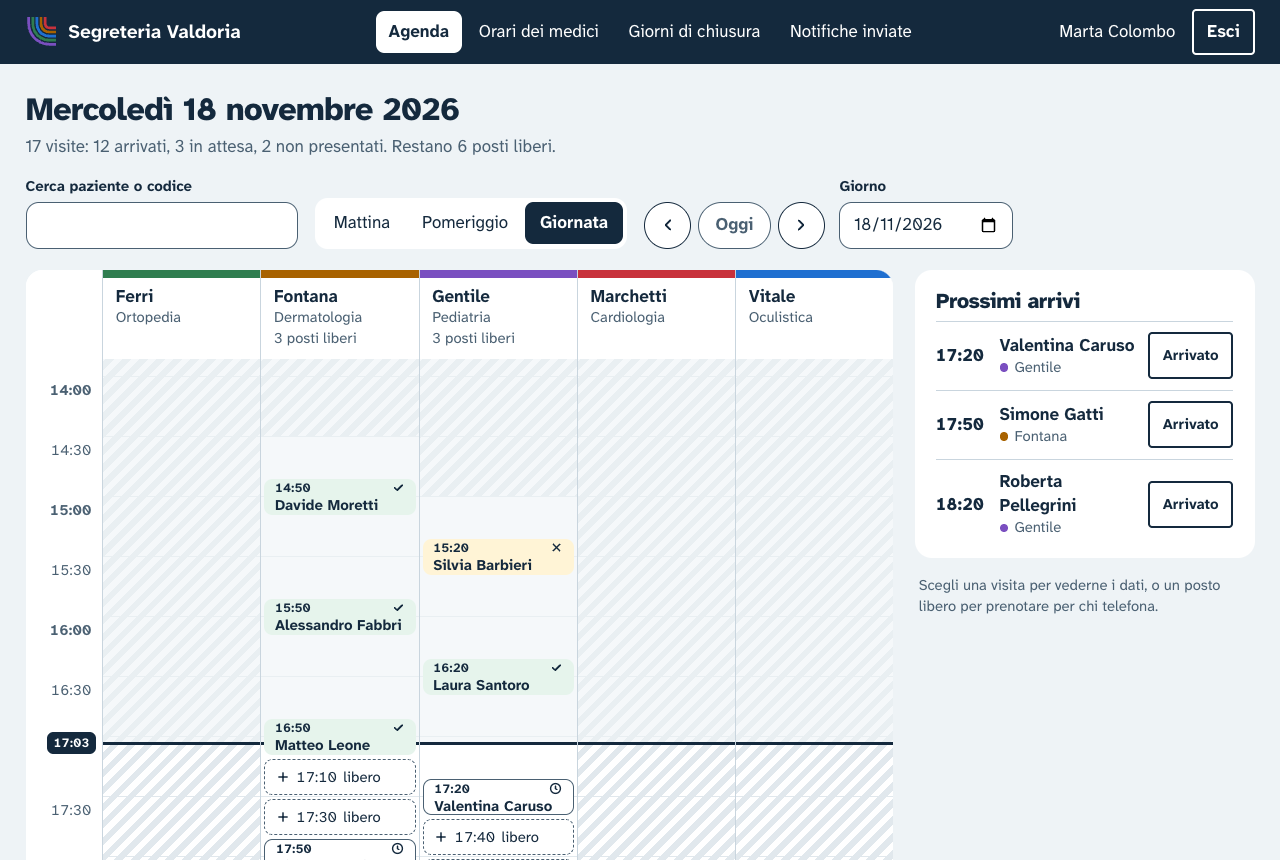
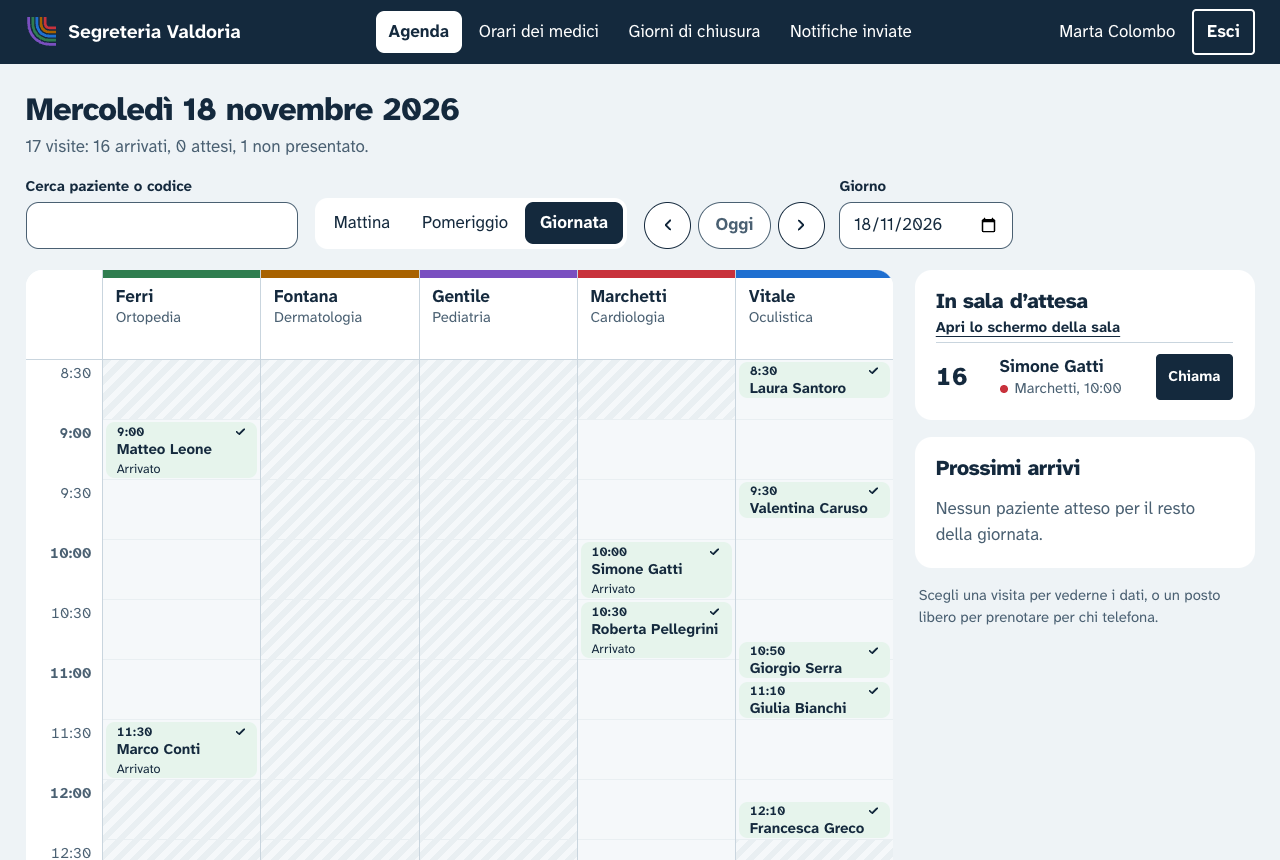
docs: the waiting room in the README, with ADR 7

diff --git a/e2e/screenshots/readme.spec.ts b/e2e/screenshots/readme.spec.ts
@@ -57,6 +57,16 @@ test.describe('on a computer', () => {
     await capture(page, 'computer-prenotazione', true);
   });
 
+  test('the waiting room screen', async ({ page }) => {
+    // The size of a television, scaled down: the screen fills it exactly.
+    await page.setViewportSize({ width: 1280, height: 720 });
+    await page.goto('/sala');
+    await page
+      .getByRole('region', { name: /Ora tocca al numero|Nessuna chiamata per ora/ })
+      .waitFor();
+    await capture(page, 'computer-sala', false);
+  });
+
   test('the staff area', async ({ page }) => {
     await page.goto('/segreteria');
     await page.getByLabel('Nome utente').fill('segreteria');

diff --git a/README.en.md b/README.en.md
@@ -37,6 +37,7 @@ When the containers are ready, open <http://localhost:8080>. The first start bui
 | Book a visit by following the line of a specialty | <http://localhost:8080> |
 | View, move or cancel it with code and e-mail; add it to a calendar, print the ticket | "La mia prenotazione" |
 | The day's agenda as a grid, bookings for callers, doctors' hours, closure days, sent e-mails | <http://localhost:8080/segreteria> |
+| The waiting room screen, which calls numbers and never names | <http://localhost:8080/sala> |
 | API documentation | <http://localhost:8080/swagger-ui/index.html> |
 
 Demo credentials for the staff area:
@@ -50,11 +51,15 @@ They only exist in this local demo: they are created by the demo data, which is 
 
 A suggested tour: book a visit, then sign in as `segreteria` and open "Notifiche inviate". The confirmation e-mail you find there travelled through Kafka.
 
+Then the waiting room: open <http://localhost:8080/sala> in another window, mark a patient as arrived in the agenda and press "Chiama" under "In sala d'attesa". The number shows up on the screen within seconds; open that patient's booking on a phone (the code and e-mail are in the visit's details) and the page says "È il tuo turno".
+
 If port 8080 is taken, copy `.env.example` to `.env` and change `APP_PORT`. The site only answers from your own computer; to open it from a phone on the same network set `APP_BIND=0.0.0.0` in the same file. To start again from the initial data: `docker compose down -v`.
 
 ![Booking on a computer: the band of the specialty with the steps, days and times, the ticket printing beside them](docs/screenshots/computer-prenotazione.png)
 
-![The front desk agenda: one column per doctor, visits at their time, free slots, the line of the present and the next arrivals](docs/screenshots/computer-agenda.png)
+![The front desk agenda: one column per doctor, visits at their time, the patients waiting to be called and the next arrivals](docs/screenshots/computer-agenda.png)
+
+![The waiting room screen: the number called on split-flap tiles as in a station, the room to reach with the line to follow, the calls before; never a name](docs/screenshots/computer-sala.png)
 
 ## What it demonstrates
 
@@ -62,6 +67,8 @@ If port 8080 is taken, copy `.env.example` to `.env` and change `APP_PORT`. The 
 |---|---|
 | No double booking, guaranteed by the database with an exclusion constraint | [`002-booking.sql`](backend/src/main/resources/db/changelog/changes/002-booking.sql) |
 | The proof: twelve requests at the same instant, one booking | [`ConcurrentBookingTest`](backend/src/test/java/io/github/ilsic/agenda/booking/ConcurrentBookingTest.java) |
+| Call numbers counted per day: different even for arrivals at the same instant, without gaps | [`CallNumbers`](backend/src/main/java/io/github/ilsic/agenda/booking/CallNumbers.java), [`WaitingRoomApiTest`](backend/src/test/java/io/github/ilsic/agenda/booking/WaitingRoomApiTest.java) |
+| A public screen that never shows a name, and a patient's phone that updates by itself | [`WaitingRoomPage`](frontend/src/waiting-room/WaitingRoomPage.tsx), [`turn.ts`](frontend/src/patient/turn.ts) |
 | Booking is safe to retry: the same request sent again with the same idempotency key creates no duplicate | [`IdempotentBooking`](backend/src/main/java/io/github/ilsic/agenda/booking/IdempotentBooking.java), [`BookingIdempotencyTest`](backend/src/test/java/io/github/ilsic/agenda/booking/BookingIdempotencyTest.java) |
 | Free slots computed by a single SQL query, daylight saving time included | [`FreeSlotFinder`](backend/src/main/java/io/github/ilsic/agenda/booking/FreeSlotFinder.java), [`FreeSlotFinderTest`](backend/src/test/java/io/github/ilsic/agenda/booking/FreeSlotFinderTest.java) |
 | Transactional outbox: the event is born in the same transaction as the booking | [`Outbox`](backend/src/main/java/io/github/ilsic/agenda/outbox/Outbox.java), [`BookingService`](backend/src/main/java/io/github/ilsic/agenda/booking/BookingService.java) |
@@ -124,6 +131,7 @@ Every important decision has a page explaining context, decision, consequences a
 | [Session instead of JWT](docs/adr/0004-session-instead-of-jwt.md) | No token readable by JavaScript, immediate sign-out |
 | [Outbox instead of publishing directly](docs/adr/0005-transactional-outbox.md) | No lost events and no events for data that was never saved |
 | [Wayfinding as the visual language](docs/adr/0006-wayfinding-as-visual-language.md) | Coloured lines as structure, the ticket as the only object |
+| [The waiting room calls numbers](docs/adr/0007-waiting-room-calls.md) | Never a name on the screen; numbers without duplicates or gaps; screens that ask every few seconds |
 
 Stack: Java 25, Spring Boot 4.1, PostgreSQL 18, Liquibase, Kafka 4.4 in KRaft mode, React 19, TypeScript, Vite, TanStack Query, React Hook Form with Zod, Tailwind CSS.
 
@@ -133,7 +141,7 @@ Stack: Java 25, Spring Boot 4.1, PostgreSQL 18, Liquibase, Kafka 4.4 in KRaft mo
 |---|---|---|
 | Backend | Database constraints, concurrency, daylight saving time, API, security, outbox and consumer against real PostgreSQL and Kafka (Testcontainers), module boundaries | `cd backend && ./mvnw verify` |
 | Frontend | Every page used the way a person would, against a fake backend | `cd frontend && npm ci && npm test` |
-| End to end | The patient books, the staff cancel, the e-mail arrives; on a computer and on a phone, with accessibility checks | see below |
+| End to end | The patient books, the staff cancel, the e-mail arrives; the desk calls a number and the screen and the phone show it; on a computer and on a phone, with accessibility checks | see below |
 
 The backend needs JDK 25 and a running Docker. The frontend needs Node 24 or 26.
 
@@ -186,6 +194,7 @@ cd ../frontend && npm run api:generate                                   # updat
 - **Outbox without clean-up.** Published rows stay in the table. A periodic job should archive them.
 - **An event that cannot be processed is dropped after ten attempts in quick succession.** That is right for an unreadable message; if the database stays down longer, that e-mail is lost. I would add retries spaced out over time and a topic for messages that cannot be processed.
 - **Single-node Kafka and plain HTTP.** Fine for a demo, not for production.
+- **Screens that ask every few seconds.** The waiting room screen and the patient's phone ask for news every 3 to 5 seconds. With many screens I would move to Server-Sent Events, with the news shared between instances.
 - **Docker Compose only.** To run it on Kubernetes I would add a Helm chart.
 
 ## License

diff --git a/docs/adr/0007-waiting-room-calls.md b/docs/adr/0007-waiting-room-calls.md
@@ -1,0 +1,45 @@
+# 7. The waiting room calls numbers, and screens ask for news
+
+Status: accepted
+
+## Context
+
+When the doctor is ready, someone has to tell the patient. A name called out across a waiting
+room, or shown on a screen, tells strangers who is seeing which specialist: in a clinic that is
+health data. Many clinics hand out a number at the desk and show the number instead.
+
+Two things must learn about a call within seconds: the screen in the waiting room, and the
+patient's own phone, if the booking is open on it.
+
+## Decision
+
+- **A number per day, given at the desk.** A patient who arrives on the day of the visit takes
+  the next number of that day (`Appointment.markArrived`). Recording the arrival again keeps the
+  number; an arrival recorded on a later day, for the books, gets none.
+- **One row per day hands the numbers out.** `INSERT … ON CONFLICT (day) DO UPDATE SET
+  last_number = last_number + 1 RETURNING last_number` (`CallNumbers`) runs inside the arrival's
+  transaction. Arrivals at the same moment queue on that row and get different numbers; an
+  arrival that is rolled back gives its number back, so there are no gaps. A unique constraint
+  on day and number stays in the schema as the last word.
+- **The screen is public and shows no name.** `GET /api/v1/waiting-room/calls` returns today's
+  five latest calls: number, room, floor, specialty and time. Nothing in it identifies a patient,
+  so the screen needs no account; the test compares the whole JSON, so a field added by mistake
+  fails it.
+- **Screens ask every few seconds.** The waiting room screen asks every 3 seconds; the patient's
+  page every 5, and only on the day of the visit, until the call. Server-Sent Events or
+  WebSockets would bring the delay to nothing, but they hold a connection open per screen
+  through nginx and, with more than one backend instance, need a way to share the news between
+  instances. For one screen and a few phones, an indexed query every few seconds is simpler, and
+  survives restarts and network drops without a line of code.
+- **Where to go is said the way the ticket says it.** A doctor has a room and a floor; the screen
+  adds the line to follow: "Primo piano, segui la linea rossa". The split-flap tiles use the
+  ticket's monospaced face: the screen is the clinic's other physical object (ADR 6).
+
+## Consequences
+
+- A call reaches the screen in about three seconds at most, and the phone in about five.
+- The screen's query reads a partial index on day and call time: it costs next to nothing,
+  however many screens ask.
+- There is no "visit over" state, so the phone shows the call for a quarter of an hour, or until
+  the end of the visit if that is later.
+- Moving to push later would change how screens hear about calls, not the model behind them.
